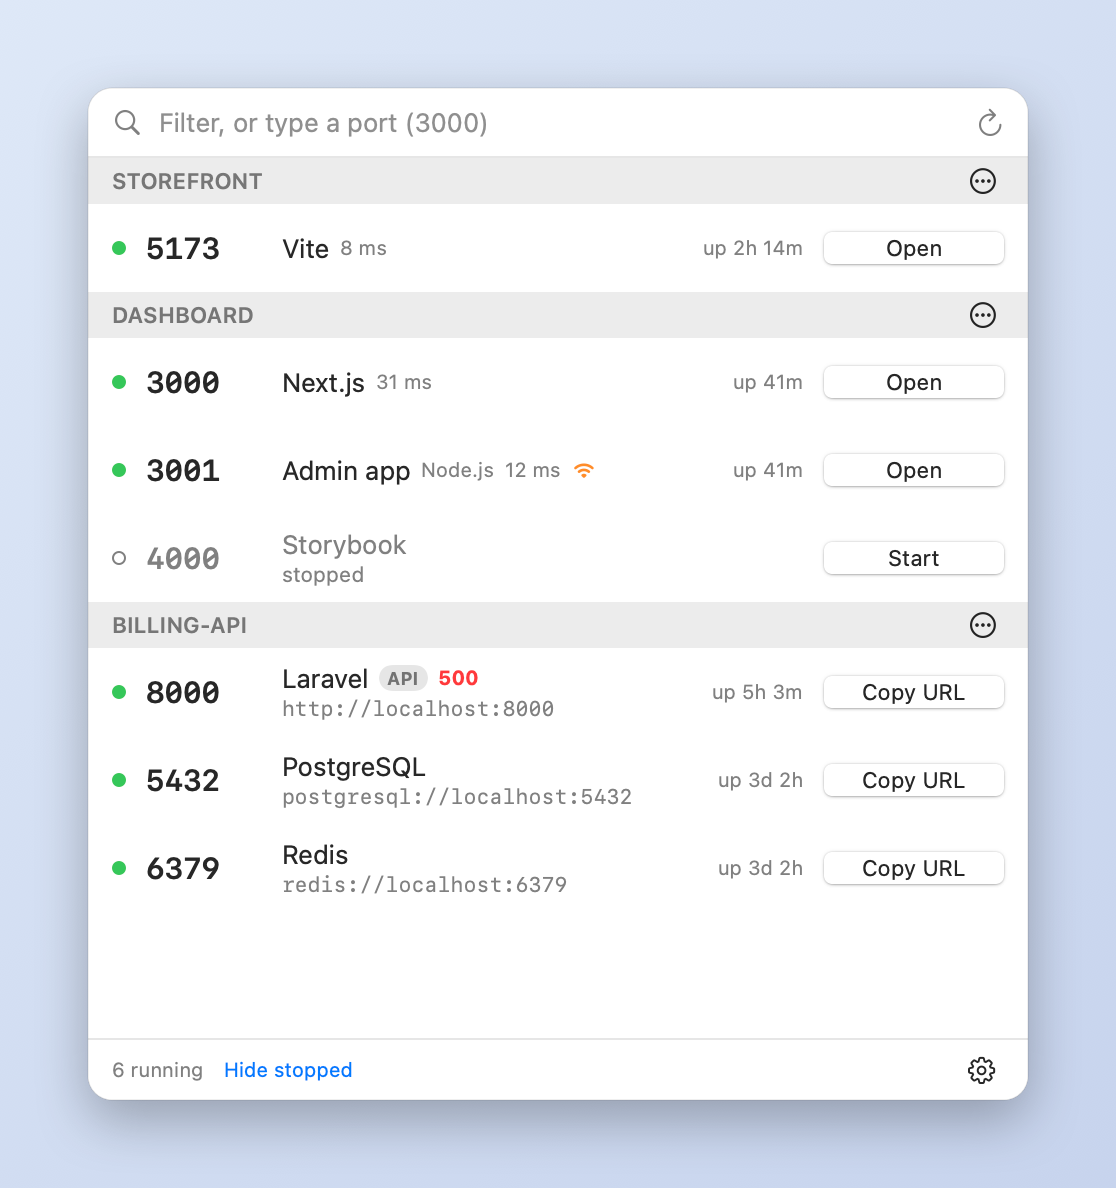
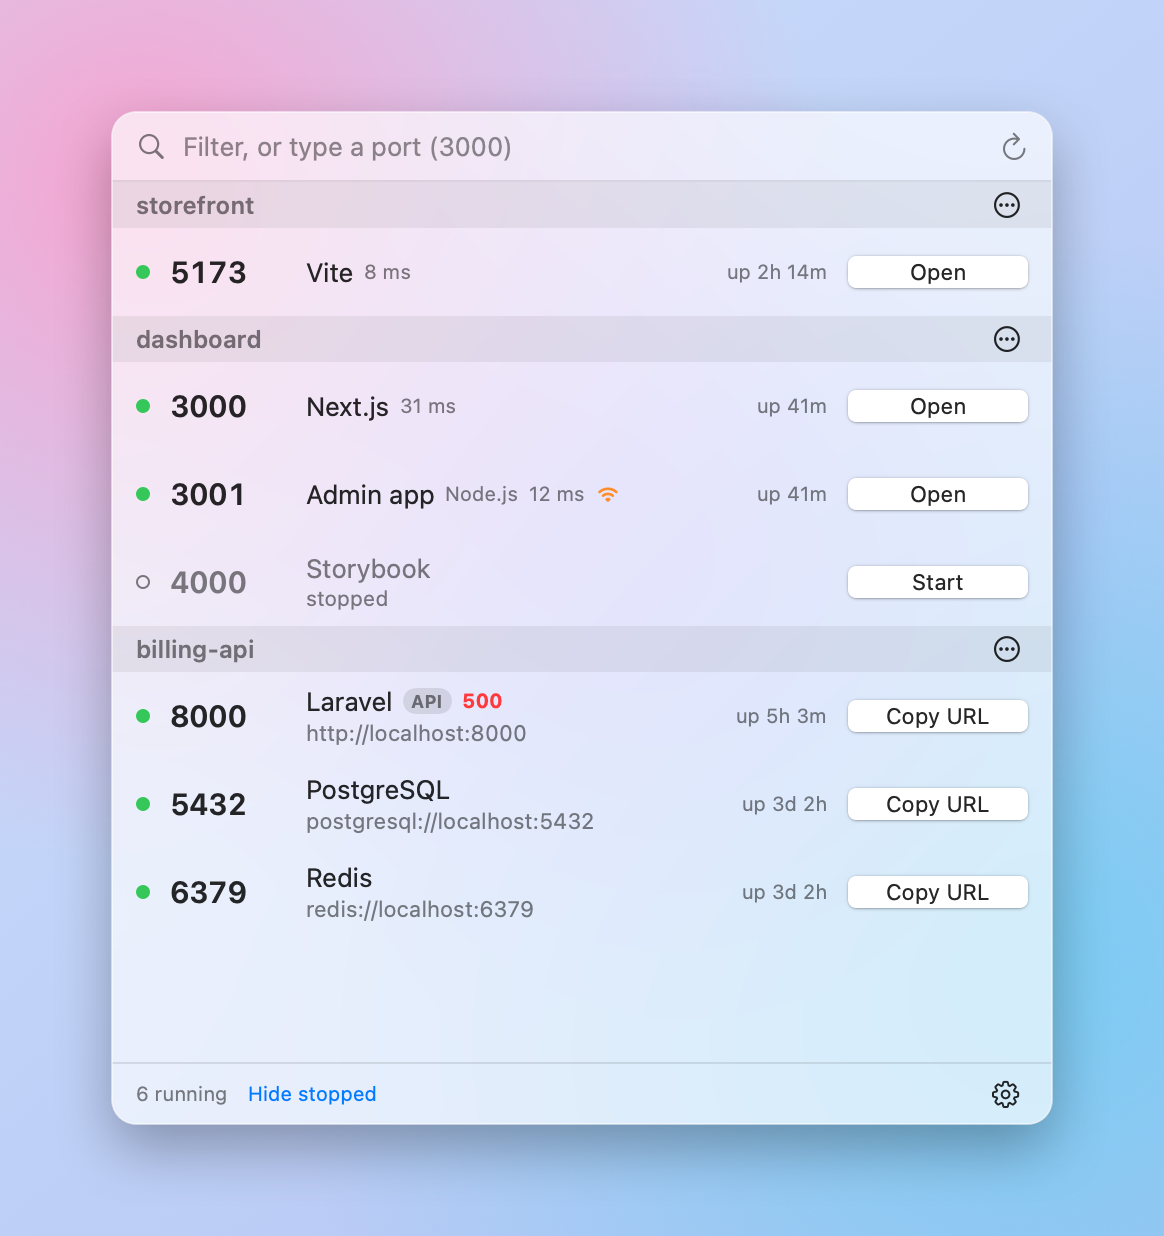
Translucent native look, plain-case headers and system fonts, new screenshots

diff --git a/Sources/LocalServer/main.swift b/Sources/LocalServer/main.swift
@@ -1,3 +1,4 @@
+import CoreImage
 import SwiftUI
 import Foundation
 if CommandLine.arguments.contains("--scan") {
@@ -62,51 +63,129 @@ if let i = CommandLine.arguments.firstIndex(of: "--screenshot"), CommandLine.arg
         let store = Store(sample: list, stopped: [stoppedServer], names: ["/Users/dev/dashboard:3001": "Admin app"],
                           pinned: [])
         _ = NSApplication.shared
+        Theme.flat = true
         let look = NSAppearance(named: dark ? .darkAqua : .aqua)
-        let host = NSHostingView(rootView: RootView().environmentObject(store))
-        host.appearance = look
-        let size = host.fittingSize
-        let win = NSWindow(contentRect: NSRect(origin: .zero, size: size), styleMask: [.borderless], backing: .buffered, defer: false)
-        win.appearance = look
-        win.contentView = host
-        win.setFrameOrigin(NSPoint(x: -4000, y: -4000))
-        win.orderFront(nil)
-        RunLoop.current.run(until: Date().addingTimeInterval(1.0))
-        if let rep = host.bitmapImageRepForCachingDisplay(in: host.bounds) {
+        var size = CGSize.zero
+
+        func render(_ matte: Color) -> CGImage? {
+            Theme.matte = matte
+            let host = NSHostingView(rootView: RootView().environmentObject(store))
+            host.appearance = look
+            size = host.fittingSize
+            let win = NSWindow(contentRect: NSRect(origin: .zero, size: size), styleMask: [.borderless], backing: .buffered, defer: false)
+            win.appearance = look
+            win.contentView = host
+            win.setFrameOrigin(NSPoint(x: -4000, y: -4000))
+            win.orderFront(nil)
+            RunLoop.current.run(until: Date().addingTimeInterval(0.8))
+            guard let rep = host.bitmapImageRepForCachingDisplay(in: host.bounds) else { return nil }
             host.cacheDisplay(in: host.bounds, to: rep)
-            // Compose the popover as a card with rounded corners and a shadow on a soft backdrop.
-            let scale: CGFloat = 2, pad: CGFloat = 44
+            win.orderOut(nil)
+            return rep.cgImage
+        }
+        func rgba(_ cg: CGImage) -> [UInt8] {
+            var data = [UInt8](repeating: 0, count: cg.width * cg.height * 4)
+            data.withUnsafeMutableBytes { p in
+                CGContext(data: p.baseAddress, width: cg.width, height: cg.height, bitsPerComponent: 8, bytesPerRow: cg.width * 4,
+                          space: CGColorSpaceCreateDeviceRGB(), bitmapInfo: CGImageAlphaInfo.premultipliedLast.rawValue)!
+                    .draw(cg, in: CGRect(x: 0, y: 0, width: cg.width, height: cg.height))
+            }
+            return data
+        }
+        /// Render on white and on black; the difference tells us each pixel's real transparency.
+        func transparentContent() -> CGImage? {
+            guard let onWhite = render(.white), let onBlack = render(.black) else { return nil }
+            let w = rgba(onWhite), k = rgba(onBlack)
+            var out = [UInt8](repeating: 0, count: w.count)
+            for i in stride(from: 0, to: w.count, by: 4) {
+                let d = (Int(w[i]) - Int(k[i]) + Int(w[i + 1]) - Int(k[i + 1]) + Int(w[i + 2]) - Int(k[i + 2])) / 3
+                let alpha = max(0, min(255, 255 - d))
+                out[i] = min(k[i], UInt8(alpha)); out[i + 1] = min(k[i + 1], UInt8(alpha)); out[i + 2] = min(k[i + 2], UInt8(alpha))
+                out[i + 3] = UInt8(alpha)
+            }
+            let width = onWhite.width, height = onWhite.height
+            return out.withUnsafeMutableBytes { p in
+                CGContext(data: p.baseAddress, width: width, height: height, bitsPerComponent: 8, bytesPerRow: width * 4,
+                          space: CGColorSpaceCreateDeviceRGB(), bitmapInfo: CGImageAlphaInfo.premultipliedLast.rawValue)?.makeImage()
+            }
+        }
+
+        if let content = transparentContent() {
+            // Fake what macOS does live: a wallpaper behind, blurred, tinted, then the popover content on top.
+            let scale: CGFloat = 2, pad: CGFloat = 56
             let w = size.width + pad * 2, h = size.height + pad * 2
-            let out = NSBitmapImageRep(bitmapDataPlanes: nil, pixelsWide: Int(w * scale), pixelsHigh: Int(h * scale),
-                                       bitsPerSample: 8, samplesPerPixel: 4, hasAlpha: true, isPlanar: false,
-                                       colorSpaceName: .deviceRGB, bytesPerRow: 0, bitsPerPixel: 0)!
-            out.size = NSSize(width: w, height: h)
-            NSGraphicsContext.saveGraphicsState()
-            NSGraphicsContext.current = NSGraphicsContext(bitmapImageRep: out)
+            func bitmap() -> NSBitmapImageRep {
+                let r = NSBitmapImageRep(bitmapDataPlanes: nil, pixelsWide: Int(w * scale), pixelsHigh: Int(h * scale),
+                                         bitsPerSample: 8, samplesPerPixel: 4, hasAlpha: true, isPlanar: false,
+                                         colorSpaceName: .deviceRGB, bytesPerRow: 0, bitsPerPixel: 0)!
+                r.size = NSSize(width: w, height: h)
+                return r
+            }
+            func draw(into r: NSBitmapImageRep, _ body: () -> Void) {
+                NSGraphicsContext.saveGraphicsState()
+                NSGraphicsContext.current = NSGraphicsContext(bitmapImageRep: r)
+                body()
+                NSGraphicsContext.restoreGraphicsState()
+            }
             let canvas = NSRect(x: 0, y: 0, width: w, height: h)
-            let (c1, c2) = dark
-                ? (NSColor(red: 0.10, green: 0.12, blue: 0.18, alpha: 1), NSColor(red: 0.05, green: 0.06, blue: 0.10, alpha: 1))
-                : (NSColor(red: 0.87, green: 0.91, blue: 0.97, alpha: 1), NSColor(red: 0.78, green: 0.83, blue: 0.93, alpha: 1))
-            NSGradient(starting: c1, ending: c2)!.draw(in: canvas, angle: -50)
             let card = NSRect(x: pad, y: pad, width: size.width, height: size.height)
             let path = NSBezierPath(roundedRect: card, xRadius: 12, yRadius: 12)
-            NSGraphicsContext.saveGraphicsState()
-            let shadow = NSShadow()
-            shadow.shadowBlurRadius = 28
-            shadow.shadowOffset = NSSize(width: 0, height: -10)
-            shadow.shadowColor = NSColor.black.withAlphaComponent(dark ? 0.6 : 0.28)
-            shadow.set()
-            (dark ? NSColor.black : NSColor.white).setFill()
-            path.fill()
-            NSGraphicsContext.restoreGraphicsState()
-            NSGraphicsContext.saveGraphicsState()
-            path.addClip()
-            rep.draw(in: card)
-            NSGraphicsContext.restoreGraphicsState()
-            (dark ? NSColor.white.withAlphaComponent(0.18) : NSColor.black.withAlphaComponent(0.12)).setStroke()
-            path.lineWidth = 0.5
-            path.stroke()
-            NSGraphicsContext.restoreGraphicsState()
+
+            // 1. wallpaper
+            let wall = bitmap()
+            draw(into: wall) {
+                let (c1, c2) = dark
+                    ? (NSColor(red: 0.08, green: 0.10, blue: 0.22, alpha: 1), NSColor(red: 0.02, green: 0.03, blue: 0.08, alpha: 1))
+                    : (NSColor(red: 0.80, green: 0.88, blue: 0.99, alpha: 1), NSColor(red: 0.70, green: 0.76, blue: 0.95, alpha: 1))
+                NSGradient(starting: c1, ending: c2)!.draw(in: canvas, angle: -50)
+                let blobs: [(CGFloat, CGFloat, CGFloat, NSColor)] = dark
+                    ? [(0.15, 0.80, 0.55, NSColor(red: 0.30, green: 0.20, blue: 0.80, alpha: 0.85)),
+                       (0.85, 0.25, 0.60, NSColor(red: 0.05, green: 0.55, blue: 0.65, alpha: 0.75)),
+                       (0.55, 0.60, 0.40, NSColor(red: 0.75, green: 0.20, blue: 0.55, alpha: 0.45))]
+                    : [(0.12, 0.85, 0.55, NSColor(red: 0.98, green: 0.62, blue: 0.80, alpha: 0.90)),
+                       (0.88, 0.22, 0.60, NSColor(red: 0.45, green: 0.80, blue: 0.95, alpha: 0.90)),
+                       (0.55, 0.55, 0.40, NSColor(red: 0.70, green: 0.60, blue: 0.98, alpha: 0.60))]
+                for (x, y, r, c) in blobs {
+                    let rad = max(w, h) * r
+                    NSGradient(colors: [c, c.withAlphaComponent(0)])!
+                        .draw(fromCenter: NSPoint(x: w * x, y: h * y), radius: 0, toCenter: NSPoint(x: w * x, y: h * y), radius: rad, options: [])
+                }
+            }
+
+            // 2. blurred copy of the wallpaper for the card area
+            let out = bitmap()
+            draw(into: out) { wall.draw(in: canvas) }
+            if let cg = wall.cgImage {
+                let blurred = CIImage(cgImage: cg).clampedToExtent()
+                    .applyingFilter("CIGaussianBlur", parameters: [kCIInputRadiusKey: 28 * scale])
+                    .cropped(to: CGRect(x: 0, y: 0, width: cg.width, height: cg.height))
+                if let bcg = CIContext().createCGImage(blurred, from: blurred.extent) {
+                    draw(into: out) {
+                        NSGraphicsContext.saveGraphicsState()
+                        let shadow = NSShadow()
+                        shadow.shadowBlurRadius = 30
+                        shadow.shadowOffset = NSSize(width: 0, height: -12)
+                        shadow.shadowColor = NSColor.black.withAlphaComponent(dark ? 0.55 : 0.30)
+                        shadow.set()
+                        NSColor.black.setFill()
+                        path.fill()
+                        NSGraphicsContext.restoreGraphicsState()
+
+                        NSGraphicsContext.saveGraphicsState()
+                        path.addClip()
+                        NSImage(cgImage: bcg, size: NSSize(width: w, height: h)).draw(in: canvas)
+                        // 3. the material tint, then the content
+                        (dark ? NSColor(white: 0.10, alpha: 0.62) : NSColor(white: 1.0, alpha: 0.66)).setFill()
+                        NSBezierPath(rect: card).fill()
+                        NSImage(cgImage: content, size: size).draw(in: card)
+                        NSGraphicsContext.restoreGraphicsState()
+
+                        (dark ? NSColor.white.withAlphaComponent(0.20) : NSColor.white.withAlphaComponent(0.70)).setStroke()
+                        path.lineWidth = 0.75
+                        path.stroke()
+                    }
+                }
+            }
             try? out.representation(using: .png, properties: [:])?.write(to: URL(fileURLWithPath: outPath))
             print("wrote \(outPath)")
         }

diff --git a/Sources/LocalServer/Views.swift b/Sources/LocalServer/Views.swift
@@ -1,9 +1,17 @@
 import SwiftUI
 
-// Colors come from the system so light and dark mode both keep their contrast.
-private extension Color {
-    static let listBackground = Color(nsColor: .textBackgroundColor)
-    static let band = Color(nsColor: .windowBackgroundColor)
+enum Theme {
+    /// Screenshots are rendered offscreen where there is nothing to blur, so they use a flat tint instead.
+    static var flat = false
+    /// Screenshot only: a solid color behind everything, used to recover transparency.
+    static var matte: Color?
+}
+
+/// Project header bands: the system bar material, so rows blur underneath as they scroll past.
+struct BandBackground: View {
+    var body: some View {
+        if Theme.flat { Color.primary.opacity(0.07) } else { Rectangle().fill(.bar) }
+    }
 }
 
 struct RootView: View {
@@ -49,7 +57,7 @@ struct RootView: View {
             footer
         }
         .frame(width: 470)
-        .background(Color.listBackground)
+        .background { if let m = Theme.matte { Rectangle().fill(m) } }
         .onReceive(NotificationCenter.default.publisher(for: .popoverDidShow)) { _ in
             store.query = ""
             filterFocused = true
@@ -75,7 +83,7 @@ struct RootView: View {
                 Text(m).font(.caption).foregroundStyle(.primary)
                     .frame(maxWidth: .infinity, alignment: .leading)
                     .padding(.horizontal, 12).padding(.vertical, 6)
-                    .background(Color.band)
+                    .background(BandBackground())
                     .transition(.opacity)
             }
             HStack(spacing: 10) {
@@ -148,7 +156,7 @@ struct GroupHeader: View {
     var body: some View {
         HStack(spacing: 6) {
             if group.name == "Pinned" { Image(systemName: "pin.fill").font(.system(size: 10)).foregroundStyle(.secondary) }
-            Text(group.name.uppercased()).font(.system(size: 11, weight: .semibold)).foregroundStyle(.secondary)
+            Text(group.name).font(.system(size: 12, weight: .semibold)).foregroundStyle(.secondary)
             Spacer()
             Menu {
                 if let path = group.path {
@@ -170,7 +178,7 @@ struct GroupHeader: View {
         }
         .padding(.horizontal, 12).padding(.vertical, 4)
         .frame(maxWidth: .infinity, alignment: .leading)
-        .background(Color.band)
+        .background(BandBackground())
     }
 }
 
@@ -194,7 +202,7 @@ struct RowView: View {
         HStack(spacing: 10) {
             Circle().fill(.green).frame(width: 7, height: 7)
             Text(String(entry.port))
-                .font(.system(size: 15, weight: .semibold, design: .monospaced))
+                .font(.system(size: 15, weight: .semibold)).monospacedDigit()
                 .frame(width: 58, alignment: .leading)
             VStack(alignment: .leading, spacing: 1) {
                 HStack(spacing: 5) {
@@ -216,7 +224,7 @@ struct RowView: View {
                 }
                 // Show exactly what the button will copy, so there is nothing to guess.
                 if entry.web != .page {
-                    Text(entry.address).font(.system(size: 10.5, design: .monospaced)).foregroundStyle(.secondary)
+                    Text(entry.address).font(.system(size: 11)).foregroundStyle(.secondary)
                         .lineLimit(1).fixedSize()
                 }
                 if let t = tunnels.tunnels[entry.port] { TunnelLine(tunnel: t) }
@@ -336,7 +344,7 @@ struct StoppedRow: View {
     var body: some View {
         HStack(spacing: 10) {
             Circle().strokeBorder(Color.secondary, lineWidth: 1).frame(width: 7, height: 7)
-            Text(String(server.port)).font(.system(size: 15, weight: .semibold, design: .monospaced))
+            Text(String(server.port)).font(.system(size: 15, weight: .semibold)).monospacedDigit()
                 .foregroundStyle(.secondary).frame(width: 58, alignment: .leading)
             VStack(alignment: .leading, spacing: 1) {
                 Text(store.names[server.key] ?? server.title).font(.system(size: 13)).foregroundStyle(.secondary).lineLimit(1)
